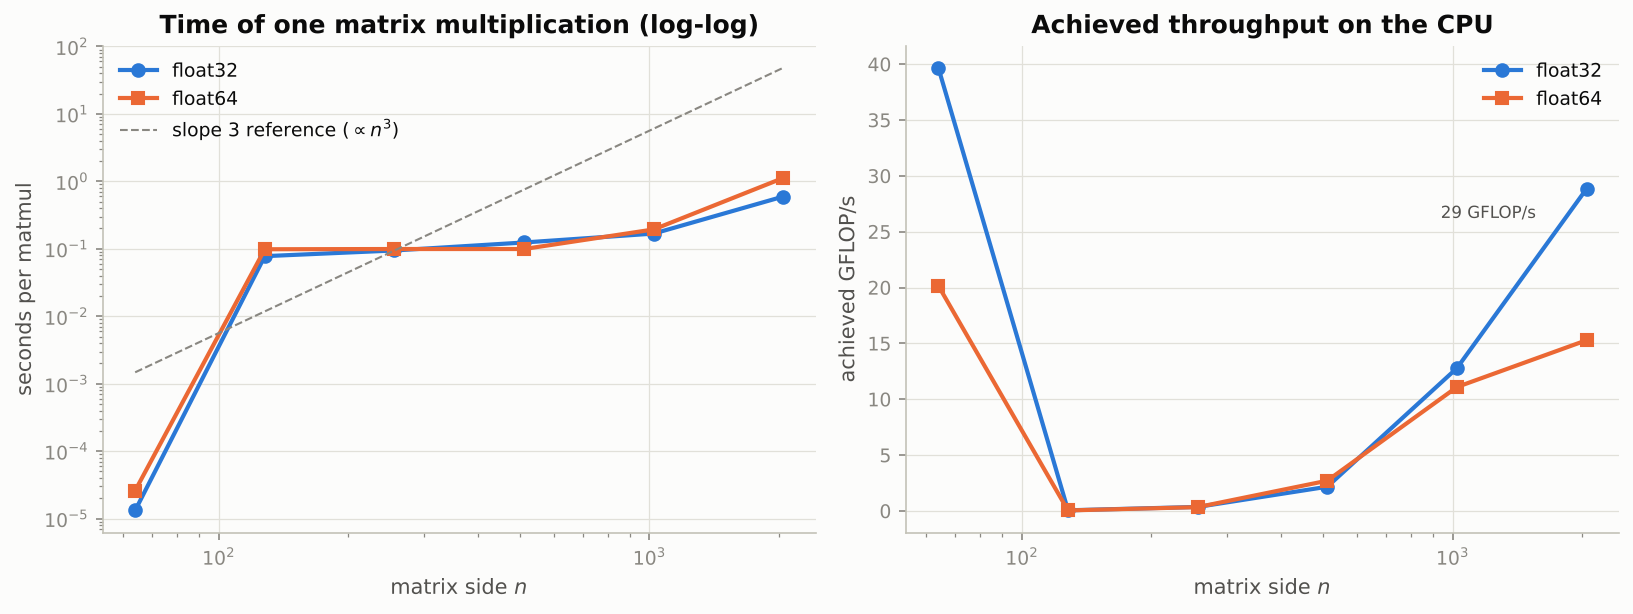
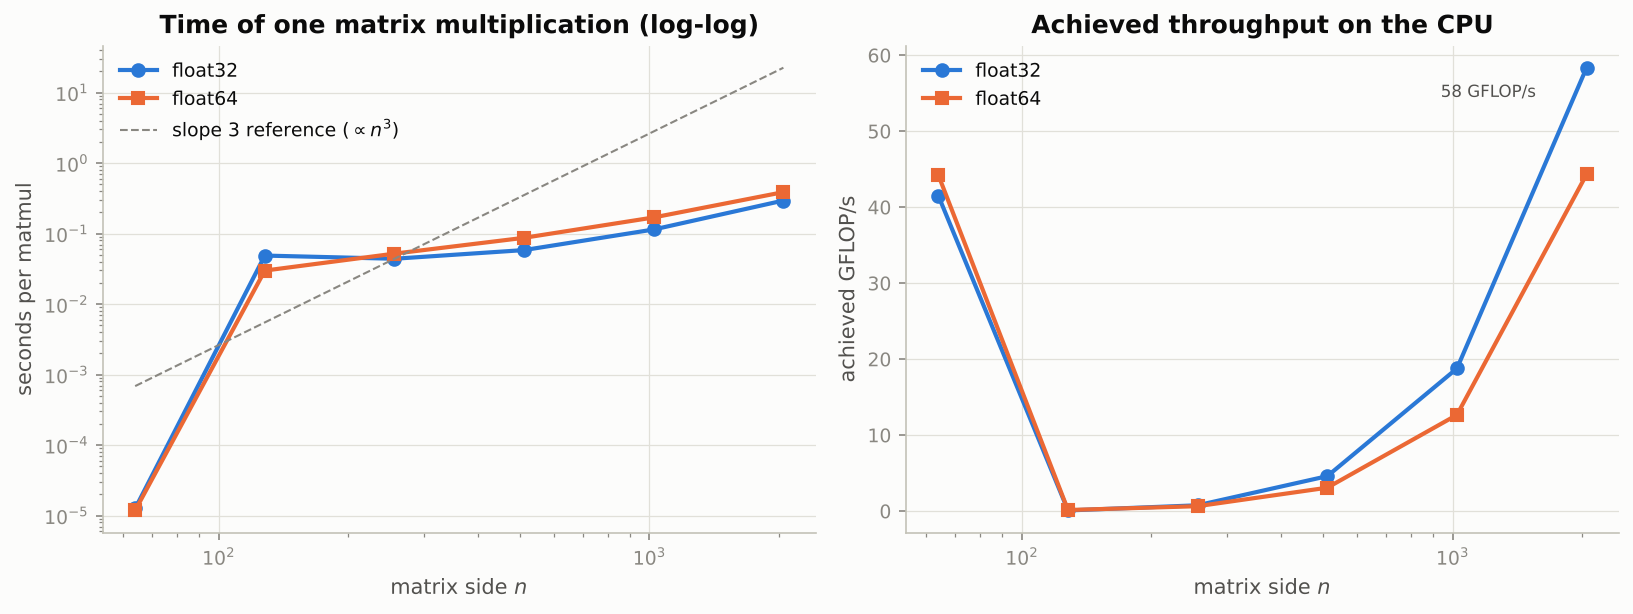
WIP: partial worker output for 06, 12, 17
Claude-Session: https://claude.ai/code/session_01AyDyWZLS5ijWEeo4Qagpbd

diff --git a/notebooks/figures/scripts/make_figures_06.py b/notebooks/figures/scripts/make_figures_06.py
@@ -1,10 +1,10 @@
 """Figures for the companion guide of Notebook 06 · Convolutional Neural Networks.
 
-Everything here is numpy + matplotlib (plus scikit-learn's bundled ``china.jpg`` sample image and
-``make_moons`` generator; nothing is downloaded). Cross-correlation, pooling, im2col, receptive-field
+Everything here is numpy + matplotlib (plus scikit-learn's bundled ``china.jpg`` sample image; nothing
+is downloaded). Cross-correlation, pooling, im2col, receptive-field
 arithmetic and the cost formulas are re-implemented in numpy so that the notebook's numbers can be
-reproduced without PyTorch. The "degradation" experiment of Section 6 is a small numpy MLP on the
-two-moons problem, trained with hand-written backpropagation: a toy, clearly labelled as such.
+reproduced without PyTorch. Section 6 measures, on random He-initialised ReLU stacks, how close a plain and a residual stack
+start to the identity and how the input gradient behaves with depth: numbers at initialisation, no training.
 
 Run:  python3 notebooks/figures/scripts/make_figures_06.py
 Every number quoted in the guide is printed by this script.
@@ -522,111 +522,83 @@ def fig_crop_flip_augmentation():
 
 
 # ----------------------------------------------------------------------------------------------
-# Section 6: plain versus residual MLPs on two moons (toy, numpy, hand-written backprop)
+# Section 6: why residual blocks are easier to optimise, measured at initialisation (numpy)
 # ----------------------------------------------------------------------------------------------
-def make_mlp(depth, width, residual, seed):
-    r = np.random.default_rng(seed)
-    params = {"Win": r.standard_normal((width, 2)) * np.sqrt(2 / 2), "bin": np.zeros(width),
-              "W": [r.standard_normal((width, width)) * np.sqrt(2 / width) for _ in range(depth)],
-              "b": [np.zeros(width) for _ in range(depth)],
-              "Wout": r.standard_normal((1, width)) * np.sqrt(1 / width), "bout": np.zeros(1)}
-    params["alpha"] = 1 / np.sqrt(depth) if residual else None      # residual branch scale (keeps the signal size)
-    return params
+def residual_block_by_hand():
+    print("\n=== residual block by hand (table in the guide, no figure) ===")
+    x = np.array([1.0, -2.0, 0.5])
+    W = np.array([[0.5, 0.0, -1.0], [0.2, 0.3, 0.0], [-0.4, 0.1, 0.6]])
+    z = W @ x
+    Fx = np.maximum(z, 0)
+    print("x =", x.tolist(), "| W x =", np.round(z, 2).tolist(), "| F(x) = relu(W x) =", Fx.tolist())
+    print("plain block output   :", Fx.tolist())
+    print("residual block output:", np.round(Fx + x, 2).tolist(), "(= F(x) + x)")
+    print("with W = 0 the residual block returns x exactly:", (np.maximum(np.zeros((3, 3)) @ x, 0) + x).tolist(),
+          "; the plain block returns", np.maximum(np.zeros((3, 3)) @ x, 0).tolist())
 
 
-def mlp_forward(p, X):
-    h = np.maximum(X @ p["Win"].T + p["bin"], 0)
-    cache = [(X, h)]
-    hs = [h]
-    for W, b in zip(p["W"], p["b"]):
-        z = h @ W.T + b
-        a = np.maximum(z, 0)
-        h = h + p["alpha"] * a if p["alpha"] is not None else a
-        cache.append((z, a)); hs.append(h)
-    logits = (h @ p["Wout"].T + p["bout"]).ravel()
-    return logits, cache, hs
+def stack_stats(depth, width, residual, n_seeds=50):
+    """For random He-initialised ReLU stacks: cosine similarity between output and input, and the norm of
+    the gradient of a random linear read-out with respect to the input. Residual stacks use
+    h <- h + F(h) / sqrt(depth), the scale control that BatchNorm provides in the real block."""
+    alpha = 1.0 / np.sqrt(depth)
+    cos, gnorm = [], []
+    for s in range(n_seeds):
+        r = np.random.default_rng(1000 + s)
+        x = r.standard_normal(width); x /= np.linalg.norm(x)
+        Ws = [r.standard_normal((width, width)) * np.sqrt(2 / width) for _ in range(depth)]
+        readout = r.standard_normal(width); readout /= np.linalg.norm(readout)
+        h, masks = x.copy(), []
+        for W in Ws:
+            z = W @ h; m = (z > 0).astype(float); masks.append(m)
+            h = h + alpha * np.maximum(z, 0) if residual else np.maximum(z, 0)
+        cos.append(float(h @ x / (np.linalg.norm(h) * np.linalg.norm(x) + 1e-12)))
+        g = readout.copy()                                        # d(readout . h_L) / d h_L
+        for W, m in zip(reversed(Ws), reversed(masks)):           # back through the stack
+            g = g + alpha * (W.T @ (m * g)) if residual else W.T @ (m * g)
+        gnorm.append(float(np.linalg.norm(g)))
+    return np.array(cos), np.array(gnorm)
 
 
-def mlp_loss_grads(p, X, y):
-    logits, cache, hs = mlp_forward(p, X)
-    prob = 0.5 * (1 + np.tanh(0.5 * logits))
-    loss = float(np.mean(np.maximum(logits, 0) - logits * y + np.log1p(np.exp(-np.abs(logits)))))
-    g = ((prob - y) / len(y))[:, None]                     # dL/dlogits, (N, 1)
-    grads = {"W": [None] * len(p["W"]), "b": [None] * len(p["b"])}
-    grads["Wout"] = g.T @ hs[-1]; grads["bout"] = g.sum(axis=0)
-    gh = g @ p["Wout"]                                     # dL/dh_last
-    for l in reversed(range(len(p["W"]))):
-        z, a = cache[l + 1]
-        ga = gh * p["alpha"] if p["alpha"] is not None else gh
-        gz = ga * (z > 0)
-        grads["W"][l] = gz.T @ hs[l]; grads["b"][l] = gz.sum(axis=0)
-        gh = gz @ p["W"][l] + (gh if p["alpha"] is not None else 0)
-    X0, h0 = cache[0]
-    gz0 = gh * (h0 > 0)
-    grads["Win"] = gz0.T @ X0; grads["bin"] = gz0.sum(axis=0)
-    return loss, grads, (prob > 0.5).astype(float)
-
-
-def train_mlp(depth, width, residual, X, y, steps, lr, seed=0):
-    p = make_mlp(depth, width, residual, seed)
-    vel = {k: (np.zeros_like(v) if not isinstance(v, list) else [np.zeros_like(a) for a in v])
-           for k, v in p.items() if k != "alpha"}
-    losses = []
-    for _ in range(steps):
-        loss, g, pred = mlp_loss_grads(p, X, y)
-        losses.append(loss)
-        for k in ("Win", "bin", "Wout", "bout"):
-            vel[k] = 0.9 * vel[k] + g[k]; p[k] -= lr * vel[k]
-        for l in range(depth):
-            for k in ("W", "b"):
-                vel[k][l] = 0.9 * vel[k][l] + g[k][l]; p[k][l] -= lr * vel[k][l]
-    loss, _, pred = mlp_loss_grads(p, X, y)
-    return np.array(losses), float((pred == y).mean())
-
-
-def fig_plain_vs_residual_toy():
-    print("\n=== fig_plain_vs_residual_toy ===")
-    from sklearn.datasets import make_moons
-    X, y = make_moons(n_samples=400, noise=0.15, random_state=0)
-    X = (X - X.mean(axis=0)) / X.std(axis=0)
-    y = y.astype(float)
-    width, steps, lr, seeds = 16, 400, 0.03, (0, 1, 2)
-    depths = (2, 4, 8, 16, 24, 32)
-    print(f"two moons (400 points, noise 0.15), width {width}, full-batch SGD momentum 0.9, lr {lr}, {steps} steps, "
-          f"mean over {len(seeds)} seeds; residual branch scaled by 1/sqrt(depth) at init")
-    curves, final, accs = {}, {False: [], True: []}, {False: [], True: []}
-    print(f"{'depth':>5s} {'plain final loss':>16s} {'plain acc':>10s} {'residual final loss':>19s} {'residual acc':>13s}")
-    for depth in depths:
-        for res in (False, True):
-            cs, ac = [], []
-            for s in seeds:
-                losses, acc = train_mlp(depth, width, res, X, y, steps, lr, seed=s)
-                cs.append(losses); ac.append(acc)
-            curves[(depth, res)] = np.mean(cs, axis=0)
-            final[res].append(curves[(depth, res)][-1]); accs[res].append(100 * np.mean(ac))
-        print(f"{depth:>5d} {final[False][-1]:>16.3f} {accs[False][-1]:>9.1f}% {final[True][-1]:>19.3f} {accs[True][-1]:>12.1f}%")
-    show = [("plain, 2 hidden layers", (2, False), SERIES[0]), ("plain, 16 hidden layers", (16, False), SERIES[1]),
-            ("residual, 16 hidden layers", (16, True), SERIES[2])]
-    for name, key, _ in show:
-        c = curves[key]
-        print(f"  {name}: loss at step 100 = {c[99]:.3f}, step 200 = {c[199]:.3f}, step 400 = {c[-1]:.3f}")
+def fig_residual_mechanisms():
+    print("\n=== fig_residual_mechanisms ===")
+    width, n_seeds = 64, 50
+    depths = [1, 2, 4, 8, 16, 32, 64]
+    rows = {}
+    print(f"random ReLU stacks, width {width}, He init, {n_seeds} seeds; residual branch scaled by 1/sqrt(depth)")
+    print(f"{'depth':>5s} | {'cos(out, in) plain':>18s} {'residual':>9s} | {'|grad| plain p10/p50/p90':>26s} | {'|grad| residual p10/p50/p90':>28s}")
+    for L in depths:
+        pc, pg = stack_stats(L, width, False, n_seeds); rc, rg = stack_stats(L, width, True, n_seeds)
+        rows[L] = (pc, pg, rc, rg)
+        q = lambda a: np.percentile(a, [10, 50, 90])
+        print(f"{L:>5d} | {pc.mean():>18.3f} {rc.mean():>9.3f} | {q(pg)[0]:>8.3f} {q(pg)[1]:>8.3f} {q(pg)[2]:>8.3f} | "
+              f"{q(rg)[0]:>9.3f} {q(rg)[1]:>9.3f} {q(rg)[2]:>8.3f}")
+    L64 = rows[64]
+    print(f"depth 64: plain gradient band p90/p10 = {np.percentile(L64[1], 90) / np.percentile(L64[1], 10):.1f}x, "
+          f"residual band = {np.percentile(L64[3], 90) / np.percentile(L64[3], 10):.1f}x")
 
     fig, axes = plt.subplots(1, 2, figsize=(11, 4.2))
-    for name, key, col in show:
-        axes[0].plot(np.arange(1, steps + 1), curves[key], color=col, label=name)
-    axes[0].set(xlabel="training step", ylabel="training loss (binary cross-entropy)",
-                title="Deeper plain MLP trains worse; the residual one does not")
+    pm = [rows[L][0].mean() for L in depths]; rm = [rows[L][2].mean() for L in depths]
+    axes[0].plot(depths, pm, marker="o", color=SERIES[1], label="plain stack")
+    axes[0].plot(depths, rm, marker="s", color=SERIES[2], label="residual stack")
+    axes[0].set_xscale("log", base=2); axes[0].set_xticks(depths); axes[0].set_xticklabels(depths)
+    axes[0].set(xlabel="number of layers", ylabel="cosine similarity (output, input)",
+                title="Identity is easy: a residual stack starts near the identity")
+    axes[0].axhline(0, color=AXIS, linewidth=0.8)
+    axes[0].annotate(f"{rm[0]:.2f}", (1, rm[0]), xytext=(6, 4), textcoords="offset points", fontsize=9, color=INK_2)
     axes[0].legend()
-    axes[1].plot(depths, final[False], marker="o", color=SERIES[1], label="plain")
-    axes[1].plot(depths, final[True], marker="s", color=SERIES[2], label="residual")
-    axes[1].set_xticks(depths)
-    axes[1].set(xlabel="number of hidden layers", ylabel="training loss after 400 steps (mean of 3 seeds)",
-                title="Final training loss versus depth")
-    axes[1].annotate(f"plain-16: {final[False][3]:.2f}", (16, final[False][3]), xytext=(8, 4), textcoords="offset points",
-                     fontsize=9, color=INK_2)
-    axes[1].legend()
-    fig.suptitle("Numpy toy on two moons (a stand-in for the notebook's CIFAR-10 experiment)", fontsize=10, color=INK_2, y=1.02)
-    save(fig, NB, "plain_vs_residual_toy")
+    for col, idx, name in [(SERIES[1], 1, "plain stack"), (SERIES[2], 3, "residual stack")]:
+        p10 = [np.percentile(rows[L][idx], 10) for L in depths]; p50 = [np.percentile(rows[L][idx], 50) for L in depths]
+        p90 = [np.percentile(rows[L][idx], 90) for L in depths]
+        axes[1].plot(depths, p50, marker="o", color=col, label=f"{name} (median)")
+        axes[1].fill_between(depths, p10, p90, color=col, alpha=0.18, linewidth=0, label=f"{name} (10th to 90th percentile)")
+    axes[1].set_xscale("log", base=2); axes[1].set_yscale("log"); axes[1].set_xticks(depths); axes[1].set_xticklabels(depths)
+    axes[1].set(xlabel="number of layers", ylabel="norm of the gradient at the input (log)",
+                title="Gradients flow: plain gradients shrink and scatter, residual ones do not")
+    axes[1].legend(fontsize=8)
+    fig.suptitle(f"Measured at initialisation on random width-{width} ReLU stacks ({n_seeds} seeds), not after training",
+                 fontsize=10, color=INK_2, y=1.02)
+    save(fig, NB, "residual_mechanisms")
 
 
 # ----------------------------------------------------------------------------------------------
@@ -733,7 +705,8 @@ def main():
     fig_lenet_layers()
     fig_vgg_stage_costs()
     fig_crop_flip_augmentation()
-    fig_plain_vs_residual_toy()
+    residual_block_by_hand()
+    fig_residual_mechanisms()
     fig_architecture_tour()
     fig_occlusion_toy()
 

diff --git a/notebooks/figures/scripts/make_figures_17.py b/notebooks/figures/scripts/make_figures_17.py
@@ -9,13 +9,15 @@ The synthetic-shapes dataset, the time series, the paired-bootstrap experiment, 
 and the FrozenLake Q-learning run replicate the notebook's own numpy code with the notebook's seeds, so
 the printed values are the ones the notebook produces on its offline fallback path.
 """
-import sys, pathlib, math, re
+import sys, pathlib, math, re, warnings
 sys.path.insert(0, str(pathlib.Path(__file__).resolve().parent))
 import numpy as np
 import matplotlib.pyplot as plt
 from figstyle import *   # SERIES, BLUE, ORANGE, ..., SEQ_CMAP, DIV_CMAP, apply_style, save, bar
 apply_style()
 rng = np.random.default_rng(0)
+from sklearn.exceptions import ConvergenceWarning
+warnings.filterwarnings("ignore", category=ConvergenceWarning)   # the small MLPs run a fixed budget of 60 epochs on purpose
 
 NB = "17"
 SEED = 42            # the notebook's seed
